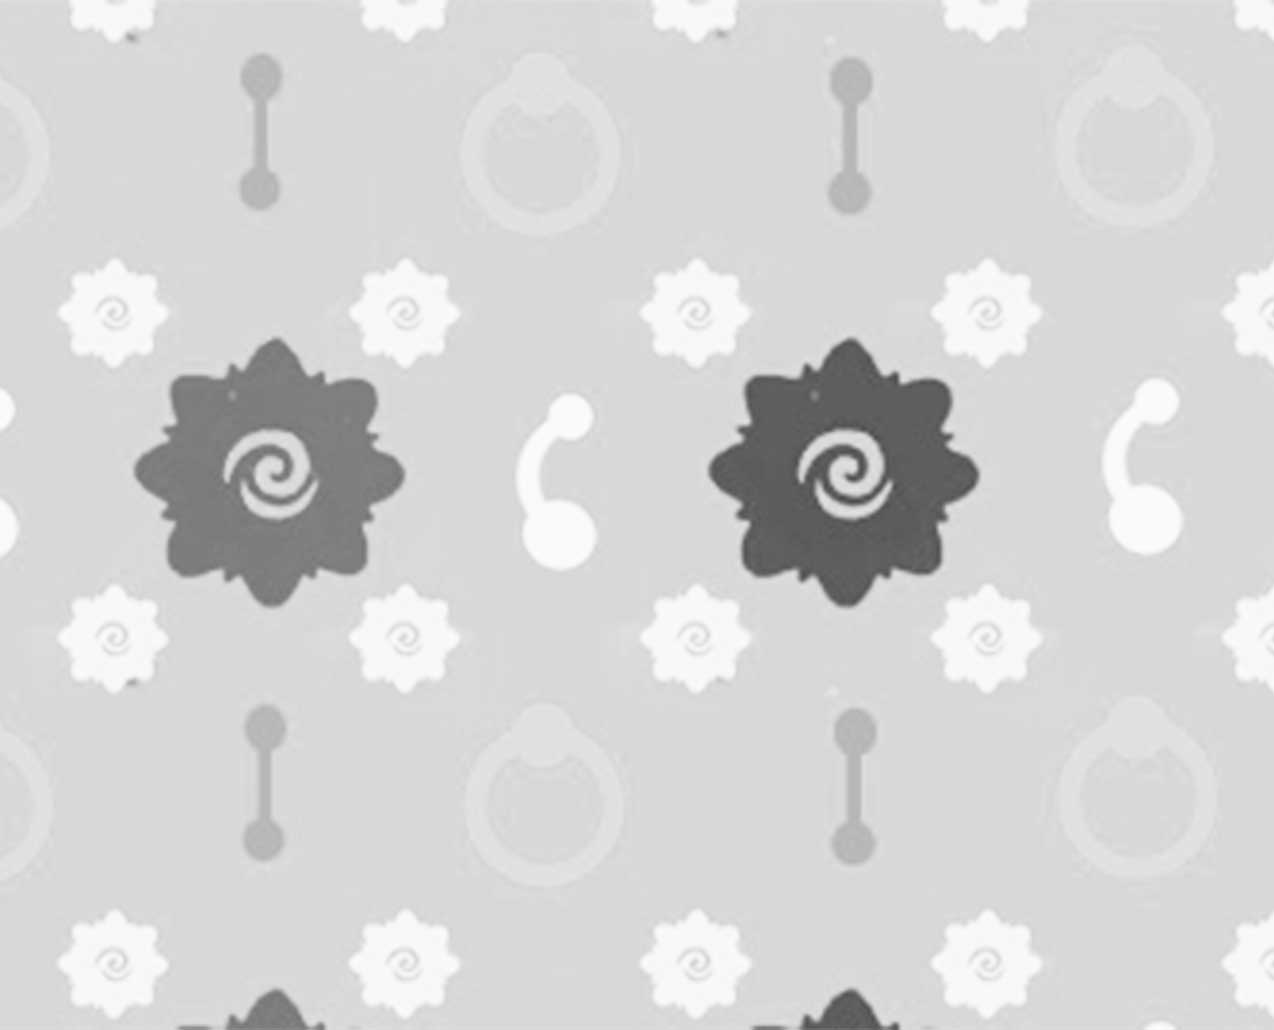
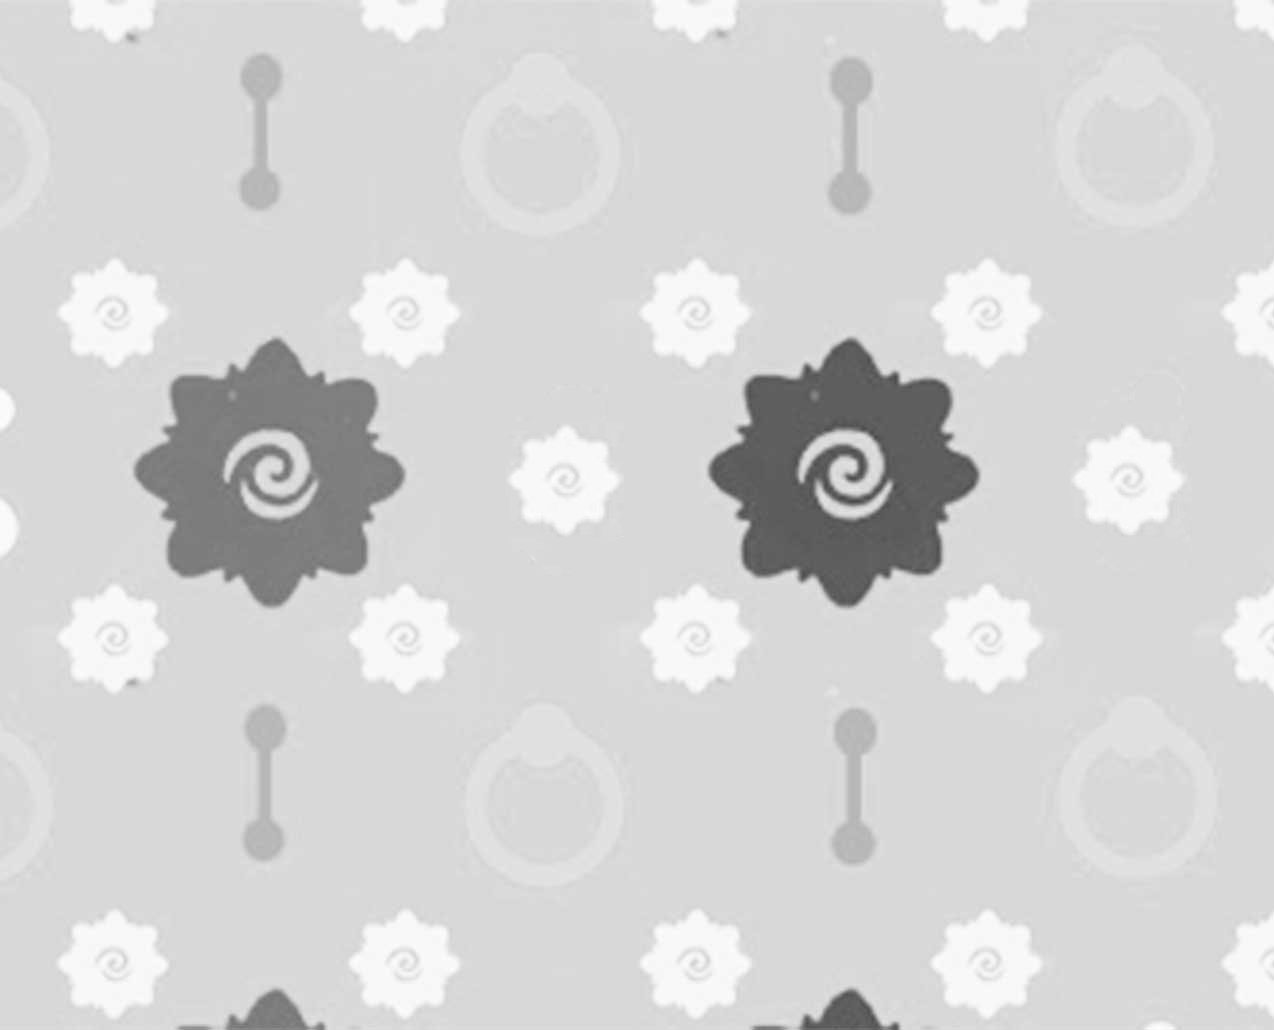
modifs fond + ajout mentions legales

Changed region(s): [[0.8265, 0.3728, 0.949, 0.5592], [0.398, 0.3728, 0.4898, 0.5592]]

diff --git a/css/app.css b/css/app.css
@@ -33,7 +33,7 @@ strong {color:#ae1729;}
 /* Pages */
 .page-salon {background:url('../img/slider-homepage-02.jpg') no-repeat center center fixed;background-size:cover;}
 .page-galerie {background:url('../img/slider-homepage-03.jpg') no-repeat center center fixed;background-size:cover;}
-.page-faq {background:url('../img/bg-faq.jpg') no-repeat center center fixed;background-size:cover;}
+.page-faq {background:url('../img/slider-homepage-02.jpg') no-repeat center center fixed;background-size:cover;}
 .page-faq .fullwidth, .page-tarifs .fullwidth {display:block;}
 .page-index {background:url('../img/bg-faq.jpg') no-repeat center center fixed;background-size:cover;}
 

diff --git a/mentions-legales.php b/mentions-legales.php
@@ -1,0 +1,181 @@
+<?
+	include_once ( $_SERVER[ "DOCUMENT_ROOT" ] . "/admin/classes/utils.php" );
+	require( $_SERVER[ "DOCUMENT_ROOT" ] . "/inc/inc.config.php" );
+	
+	$debug = false;
+	
+?>
+
+<!doctype html>
+<html class="no-js" lang="fr">
+	<head>
+		<meta charset="utf-8" />
+		<meta http-equiv="x-ua-compatible" content="ie=edge">
+		<meta name="viewport" content="width=device-width, initial-scale=1.0" />
+		<title>Madison Piercing | FAQ</title>
+		
+		<? include( $_SERVER[ "DOCUMENT_ROOT" ] . "/inc/header.php" ); ?>
+		
+	</head>
+	<body class="page-faq">
+		
+		<main>
+			
+			<? include_once( $_SERVER[ "DOCUMENT_ROOT" ] . "/inc/top.php" ); ?>
+			
+			<div class="row fullwidth fullscreen">
+		
+				<div class="row contenu">
+					<div class="columns large-12">
+						<div class="textes">
+							<h1>Mentions légales</h1>
+                			<div style="text-align: justify;">
+                				<p>
+                					<strong>Informations légales </strong>
+                				</p>
+                				<p>Le client, signataire du contrat de prestation de service est
+                					réputé être le directeur de la publication et responsable du site.
+                					Les documents et informations intégrés dans le site ont été
+                					transmis par le client et sont réputés être libres ou autorisés de
+                					droit, ce que le client reconnait. La signature du procès verbale
+                					de livraison de site atteste que le client, directeur de la
+                					publication et responsable du site, accepte et valide la
+                					publication de l’ensemble des documents textes et photos de son
+                					site qui sont réputés être libres de droit ou autorisés de droit
+                					pour une publication sans aucun frais. Le client, directeur de la
+                					publication et responsable du site renonce à toute poursuite ou
+                					indemnité pour droit d’auteur sur l’ensemble des éléments intégrés
+                					dans son site et à sa demande.</p>
+                				<p>Contact : Les coordonnées du directeur de publication se trouvent
+                					dans la page contact</p>
+                				<p>
+                					<strong>Conditions d’accès et d’utilisation</strong>
+                				</p>
+                				<p>En accédant au présent site et aux informations qu’il contient,
+                					l’utilisateur reconnaît avoir pris connaissance des présentes
+                					conditions générales d’utilisation et s’engage à les
+                					respecter.Madison Piercing se réserve le droit de modifier la présente
+                					notice à tout moment et notamment afin de l’adapter aux évolutions
+                					du site.L’utilisateur s’engage donc à consulter la présente notice
+                					régulièrement. L’utilisateur est réputé accepter cette dernière
+                					version à chaque nouvelle connexion au Site.</p>
+                				<p>Ce site est soumis à la loi française. La majorité des contenus
+                					et services du présent site est proposée en français et parfois en
+                					anglais. En cas de litige, la version française fera foi. Les
+                					documents, informations et offres de services diffusés sur le site
+                					sont destinés aussi bien aux clients de , qu’aux non-clients.</p>
+                				<p>Le présent site est accessible 24 heures sur 24, 7 jours sur 7,
+                					sauf cas de force majeure, fait(s) de tiers et/ou travaux de
+                					maintenance et interventions nécessaires au bon fonctionnement du
+                					site. Dans ce cas, cette interruption sera notifiée au moyen d’un
+                					avertissement figurant sur la page d’accueil ou par tout autre
+                					procédé. Cette interruption ne peut en aucun cas engager la
+                					responsabilité de Madison Piercing et n’ouvre droit à aucune indemnité.</p>
+                				<p>
+                					<strong>Tarifications</strong>
+                				</p>
+                				<p>L’accès au présent site est gratuit, hors la fourniture d’accès
+                					internet et les communications téléphoniques dont les coûts sont
+                					facturés directement par les opérateurs.</p>
+                				<p>
+                					<strong>Usage du site internet par l’utilisateur</strong>
+                				</p>
+                				<p>L’utilisateur est informé que l’utilisation du réseau internet ne
+                					garantit pas le secret des correspondances ; il lui appartient de
+                					prendre toutes les mesures appropriées afin de protéger ses propres
+                					données et/ou outils</p>
+                				<p>L’utilisateur s’engage à respecter l’intégrité du site et
+                					s’interdit d’entraver ou forcer le fonctionnement du site, de
+                					modifier, d’altérer ou de supprimer frauduleusement les contenus
+                					accessibles via le site et d’introduire frauduleusement des données
+                					sur le site.</p>
+                				<p>En conséquence, Madison Piercing :</p>
+                				<p>– ne saurait être tenu responsable des dommages qui pourraient
+                					éventuellement être subis, à l’occasion d’une visite sur son site,
+                					par l’environnement technique de l’utilisateur et notamment, ses
+                					ordinateurs, logiciels, équipements réseaux (modems, téléphones,
+                					etc?) et tout autre matériel utilisé pour accéder à ou utiliser le
+                					service et/ou les informations.</p>
+                				<p>– ne peut être tenu responsable en cas de mauvaise utilisation du
+                					site par l’utilisateur.</p>
+                				<p>– ne peut en aucun cas être tenu pour responsable de la fiabilité
+                					de la transmission des données, des temps d’accès, des éventuelles
+                					restrictions d’accès sur le réseau internet ou les réseaux qui lui
+                					sont connectés.</p>
+                				<p>
+                					– ne saurait être responsable en cas d’interruption des réseaux
+                					d’accès au Site, d’indisponibilité totale ou partielle du Site
+                					résultant notamment de l’opérateur de télécommunications, en cas
+                					d’erreur de transmission ou de problèmes liés à la sécurité des
+                					transmissions, en cas de défaillances du matériel de réception ou
+                					de votre ligne téléphonique.<br>
+                					<strong></strong>
+                				</p>
+                				<p>
+                					<strong>Droits de propriété intellectuelle</strong>
+                				</p>
+                				<p>Le présent site doit être considéré comme un tout indissociable.
+                					Le présent site et l’ensemble des éléments y figurant
+                					(informations, données, texte, sons, images, dessins, graphismes,
+                					signes distinctifs, logos, marques,?) sont la propriété exclusive
+                					de Madison Piercing.</p>
+                				<p>L’ensemble de ces éléments est soumis aux dispositions du Code de
+                					la propriété intellectuelle et, à ce titre, est protégé contre
+                					toute utilisation non autorisée par la loi ou les présentes
+                					conditions d’utilisation.</p>
+                				<p>La reproduction de ces éléments n’est autorisée qu’à des fins
+                					d’information et/ou de copies ou reproductions destinées à un usage
+                					strictement privé et personnel.</p>
+                				<p>Toute autre reproduction, représentation ou diffusion, en tout ou
+                					partie du contenu de ce site, sur quelque support ou par tout
+                					procédé que ce soit, est interdite. Le non-respect de cette
+                					interdiction constitue une contrefaçon susceptible d’engager la
+                					responsabilité civile et pénale du contrefacteur.</p>
+                				<p>Il est notamment strictement interdit d’utiliser ou de reproduire
+                					le nom de ce site internet et/ou son logo, seuls ou associés, à
+                					quelque titre que ce soit, et notamment à des fins publicitaires,
+                					sans l’accord préalable écrit de ? Contact : Les coordonnées du
+                					directeur de publication se trouvent dans la page contact?</p>
+                				<p>De même, le téléchargement ou toute autre forme de copie d’un
+                					logiciel ou d’informations présentes sur le site de ne confèrent
+                					aucun droit sur ceux-ci. Il est strictement interdit de les
+                					reproduire (en tout ou partie), de les transmettre
+                					(électroniquement ou de quelque autre manière) et de les modifier.
+                					Il est également interdit d’utiliser le site de à des fins
+                					publiques ou commerciales</p>
+                				<p>
+                					<strong>Liens hypertexte</strong>
+                				</p>
+                				<p>Le présent site comporte notamment des informations mises à
+                					disposition par des sociétés externes ou des liens hypertextes vers
+                					d’autres sites qui n’ont pas été développés par nos soins.
+                					L’existence, sur le présent site, d’un lien hypertexte conduisant à
+                					un autre site ne constitue pas une validation de cet autre site ou
+                					de son contenu.</p>
+                				<p>n’assume par conséquent aucune responsabilité de ces sites, leur
+                					contenu, publicités, produits ou services disponibles sur ou à
+                					partir de ces sites.</p>
+                				<p>Par ailleurs, la responsabilité de ne saurait être engagée quant
+                					aux informations, opinions et recommandations formulée par ces
+                					tiers.</p>
+                				<p>Tout lien vers le présent site doit faire l’objet d’une
+                					autorisation expresse et préalable de , lequel se réserve la
+                					possibilité de faire supprimer ce lien à tout moment.</p>
+                			</div>
+                		</div>
+					</div>
+				</div>
+				
+			</div>
+			
+			<? include_once( $_SERVER[ "DOCUMENT_ROOT" ] . "/inc/footer.php" ); ?>
+			
+		</main>
+		
+		
+		<? include( $_SERVER[ "DOCUMENT_ROOT" ] . "/inc/scripts.php" ); ?>
+		
+		
+		
+	</body>
+</html>
